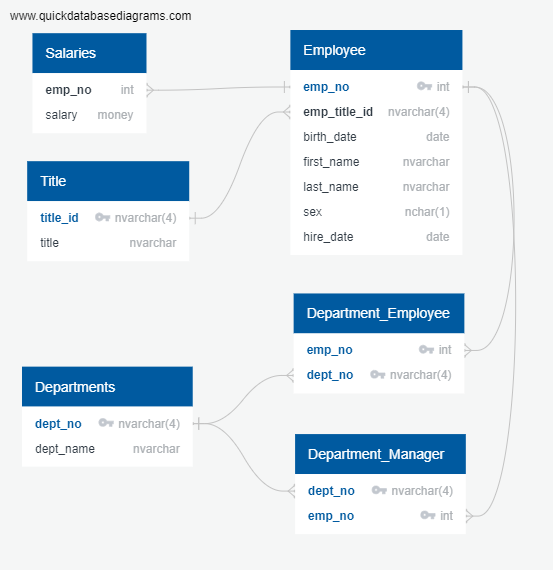
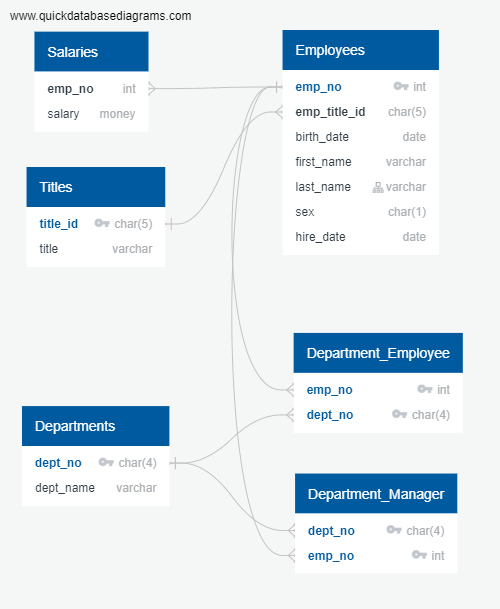
Adding scripts to create the schema, import and verrify data

diff --git a/README.md b/README.md
@@ -11,6 +11,7 @@
 <li>An employee will have only one matching; and therefore unique, record with salary data in the salaries table.</li>
 <li>An employee can be in multiple departments, but must have one unique record for each department they are in.</li>
 <li>An employee who is a manager could be a manager of more than one department, but can only have a unique entry for each department they are manager of.</li>
+<li>A department can have more than 1 manager.</li>
 <li>The data is historical and no new records will be added beyond importing from the legacy CSV files provided, so support for new, db generated ID's is not required.</li>
 </ul>
 
